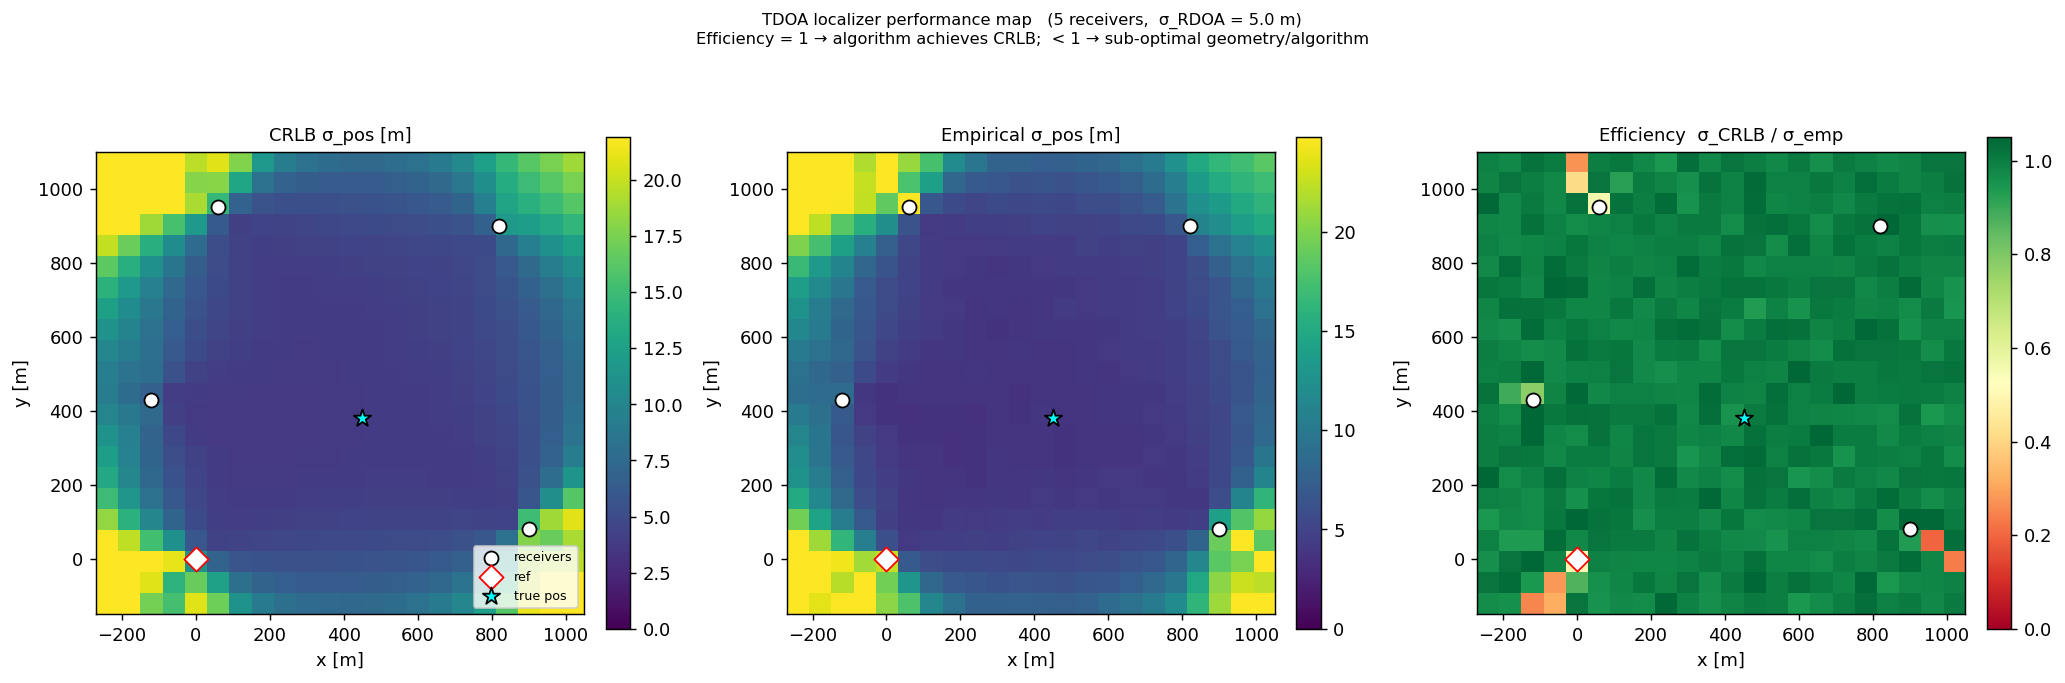
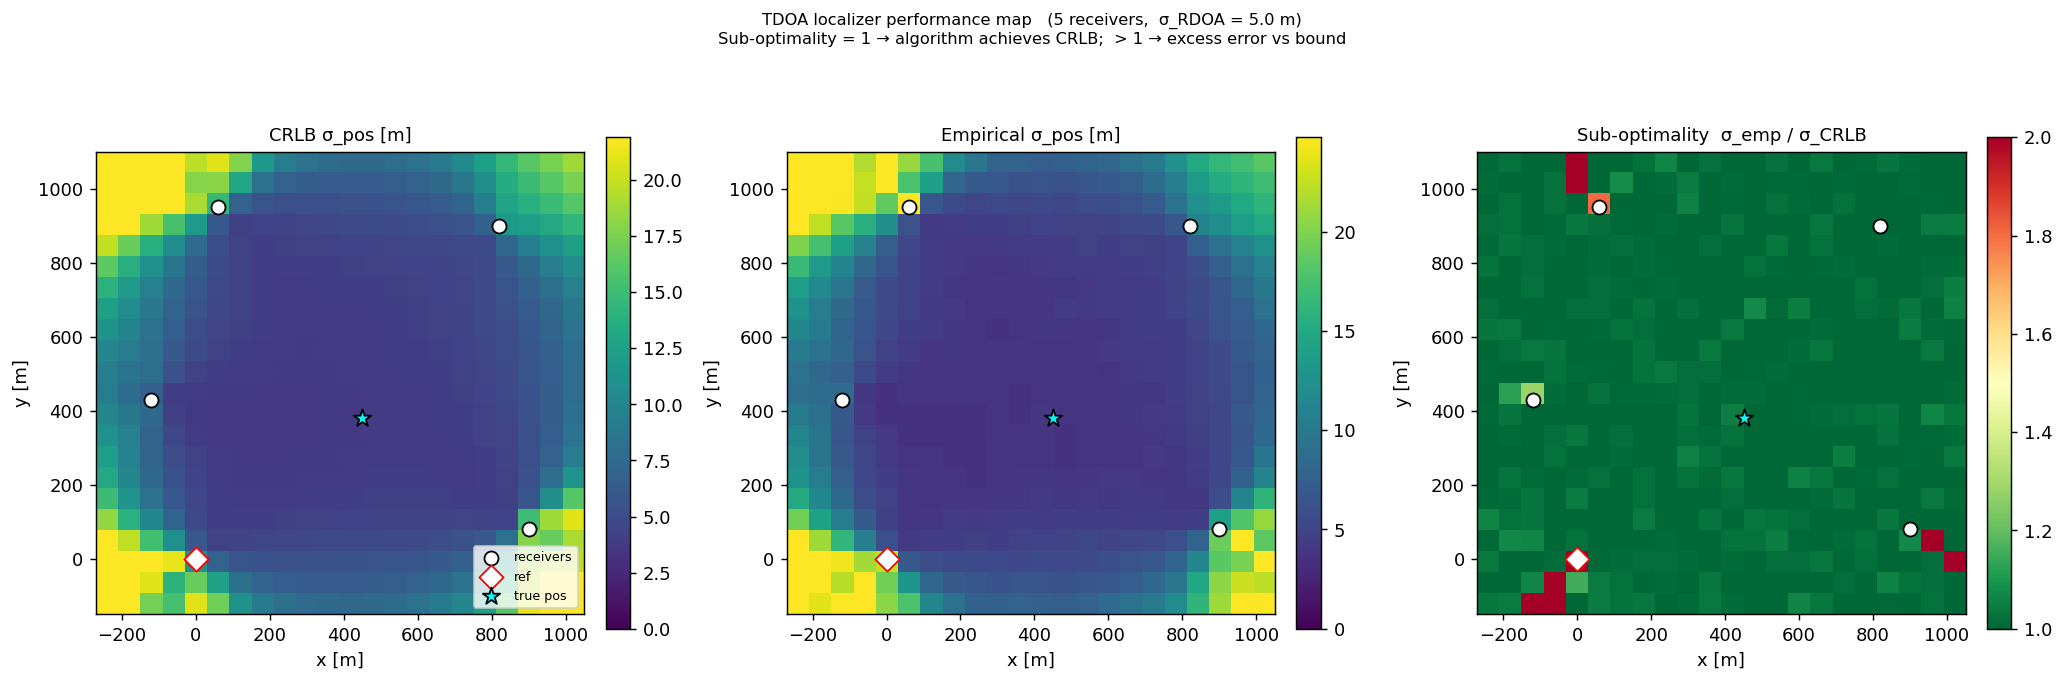
fix: flip efficiency ratio to emp/CRLB (>=1) in example 10
CRLB is a lower bound so emp >= CRLB always. The ratio emp/CRLB >= 1
is the natural direction: 1 = achieves the bound, >1 = excess error.

- Heatmap: efficiency = emp_rms/crlb_rms, cmap RdYlGn_r, vmin=1.0
- Scalar table: RMS degradation (emp/CRLB)^2 instead of (CRLB/emp)^2
- Verdict threshold: <1.25 = near-optimal (was >0.80)
- Labels and summary text updated throughout

diff --git a/examples/py/10_tdoa_localization.py b/examples/py/10_tdoa_localization.py
@@ -232,11 +232,11 @@ def main():
     print(f"  {'1σ ellipse semi-minor [m]':<30s}  {b_emp:12.4f}  {b_crlb:10.4f}")
     print(f"  {'Ellipse azimuth [deg]':<30s}  {ang_emp:12.2f}  {ang_crlb:10.2f}")
     print(f"  {'Bias [x, y] [m]':<30s}  [{bias[0]:+.4f}, {bias[1]:+.4f}]")
-    print(f"  {'RMS efficiency (CRLB/emp)²':<30s}  {(rms_crlb/rms_emp)**2:12.4f}")
+    print(f"  {'RMS degradation (emp/CRLB)²':<30s}  {(rms_emp/rms_crlb)**2:12.4f}")
 
-    eff = (rms_crlb / rms_emp)**2
-    verdict = "✓ near-optimal" if eff > 0.80 else ("△ moderately sub-optimal" if eff > 0.50 else "✗ poor")
-    print(f"\n  Efficiency at ({X_TRUE:.0f}, {Y_TRUE:.0f}) m:  {eff:.3f}  {verdict}")
+    eff = (rms_emp / rms_crlb)**2
+    verdict = "✓ near-optimal" if eff < 1.25 else ("△ moderately sub-optimal" if eff < 2.0 else "✗ poor")
+    print(f"\n  Sub-optimality at ({X_TRUE:.0f}, {Y_TRUE:.0f}) m:  {eff:.3f}  {verdict}")
 
     # Print joint summary for the particle variables
     # rdoa_k inputs are not iid (different means) — summarise individually
@@ -256,8 +256,8 @@ def main():
     print("  • Any estimator bias not visible in the CRLB")
     print("  • Heavier tails near geometry singularities (hyperbola tangencies)")
     print("  • Non-elliptical contours when the linearisation is inaccurate")
-    print("  • The efficiency ratio ρ² = tr(CRLB) / tr(P_emp) — how much of the")
-    print("    available Fisher information the algorithm actually extracts")
+    print("  • The sub-optimality ratio (emp/CRLB)² = tr(P_emp) / tr(CRLB) — how much")
+    print("    the algorithm exceeds the theoretical minimum; 1 = achieves the bound")
     print("  This is always a tighter / more honest bound than the CRLB alone.")
 
 
@@ -301,7 +301,7 @@ def _plot_error_ellipses(jd, P_emp, P_crlb, bias):
         f"TDOA localization error  ({len(RECEIVERS)}-receiver 2D array)\n"
         f"True source: ({X_TRUE:.0f}, {Y_TRUE:.0f}) m  —  σ_RDOA = {SIGMA_R} m\n"
         f"RMS emp = {rms_emp:.2f} m    CRLB = {rms_crlb:.2f} m    "
-        f"eff ρ² = {(rms_crlb/rms_emp)**2:.3f}",
+        f"(emp/CRLB)² = {(rms_emp/rms_crlb)**2:.3f}",
         fontsize=9,
     )
     ax.set_aspect("equal")
@@ -431,8 +431,8 @@ def _plot_efficiency_heatmap(grid_n=22, mc_per_point=600):
                 mse    = np.mean(err_x**2) + np.mean(err_y**2)
                 emp_rms[j, i] = math.sqrt(max(mse, 0.0))
 
-                if emp_rms[j, i] > 0:
-                    efficiency[j, i] = crlb_rms[j, i] / emp_rms[j, i]
+                if crlb_rms[j, i] > 0:
+                    efficiency[j, i] = emp_rms[j, i] / crlb_rms[j, i]
 
             except Exception:
                 pass
@@ -446,11 +446,11 @@ def _plot_efficiency_heatmap(grid_n=22, mc_per_point=600):
     for ax, data, title, cmap, clim in zip(
         axes,
         [crlb_rms, emp_rms, efficiency],
-        ["CRLB σ_pos [m]", "Empirical σ_pos [m]", "Efficiency  σ_CRLB / σ_emp"],
-        ["viridis", "viridis", "RdYlGn"],
+        ["CRLB σ_pos [m]", "Empirical σ_pos [m]", "Sub-optimality  σ_emp / σ_CRLB"],
+        ["viridis", "viridis", "RdYlGn_r"],
         [(0, np.nanpercentile(crlb_rms, 95)),
          (0, np.nanpercentile(emp_rms, 95)),
-         (0, 1.05)],
+         (1.0, max(2.0, np.nanpercentile(efficiency, 95)))],  # type: ignore[arg-type]
     ):
         im = ax.imshow(
             data,
@@ -472,7 +472,7 @@ def _plot_efficiency_heatmap(grid_n=22, mc_per_point=600):
 
     fig.suptitle(
         f"TDOA localizer performance map   ({len(RECEIVERS)} receivers,  σ_RDOA = {SIGMA_R} m)\n"
-        f"Efficiency = 1 → algorithm achieves CRLB;  < 1 → sub-optimal geometry/algorithm",
+        f"Sub-optimality = 1 → algorithm achieves CRLB;  > 1 → excess error vs bound",
         fontsize=9,
     )
     fig.tight_layout()
